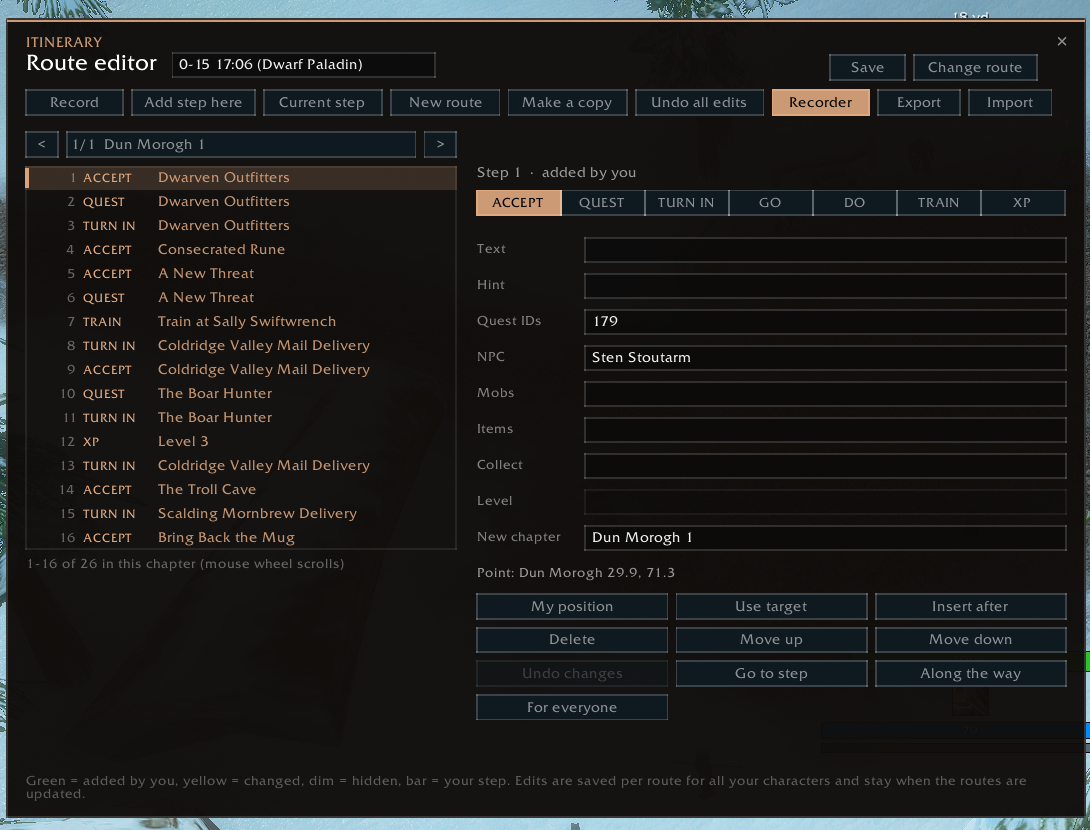
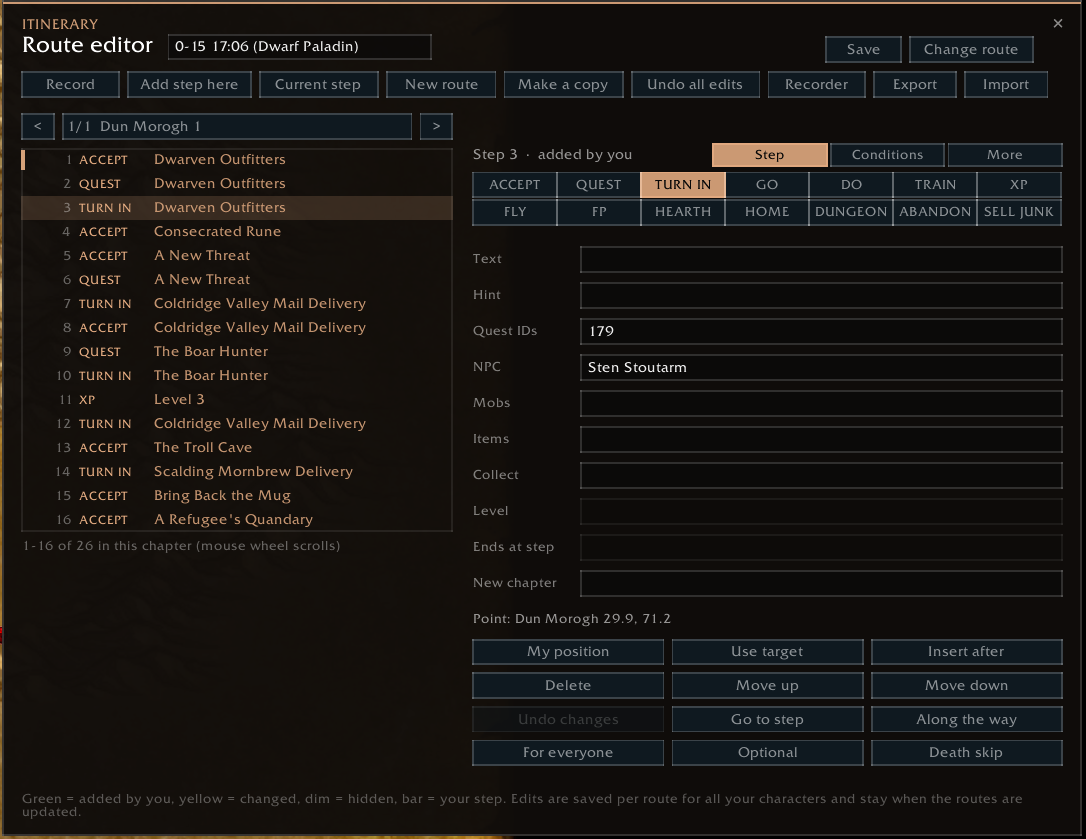
Manual: new screenshots (route panel, every settings tab, editor Step and More pages) and the features since
- route-panel.png with the instructions card, the 8 settings tabs, route-editor.png (Step page) and new
  route-editor-more.png (More page with waypoints)
- Getting started: quest tracker hidden and quest sparkles on by default
- Route panel: along the way per line, the skipped quests line, the instructions card (own card or in the
  panel, click to point the arrow, timed quests counting down), the sound when a step is done
- Arrow tooltip setting; target button settings (show button, talk on second press, tag, mark)
- Trainer: buy class skills and the skill list's two views (worth a visit, auto-buy)
- Automation table: pick gear rewards; settings table per tab as the window has it now
- Editor header: renaming your own route
- README: map pins, waypoints on the world map
- Settings: switch segments widen for a longer label ("In the panel" was cut off)

Claude-Session: https://claude.ai/code/session_012DyZwV4Qtix4bANuyvmVZC

Changed region(s): [[0.0, 0.0, 1.0, 1.0], [0.4254, 0.3012, 0.4862, 0.4819], [0.4254, 0.512, 0.4862, 0.5723]]

diff --git a/MANUAL.md b/MANUAL.md
@@ -44,11 +44,15 @@ The **minimap button** (the brass compass):
 | Right-click | Show or hide the arrow |
 | Shift + click | Open the settings |
 
+Two things Itinerary changes in the game right away, both switched back in Settings > General: the game's own
+**quest tracker** is hidden (the panel tracks your objectives), and **quest sparkles** are on (quest objects
+on the ground and NPCs with a quest for you sparkle, without the outlines around everything else).
+
 ---
 
 ## 2. The route panel
 
-<p align="center"><img src="manual/route-panel.png" alt="The route panel" width="430"></p>
+<p align="center"><img src="manual/route-panel.png" alt="The route panel" width="434"></p>
 
 From top to bottom:
 
@@ -59,19 +63,13 @@ From top to bottom:
   counts (*Rockjaw Trogg slain 3/10*).
 - **Hint**: a line under the step with extra advice (*Unequip your shirt so you can sell it*). Items and
   spells in the text show their icon. Hover them for the tooltip; Shift-click links them in chat.
-- **INSTRUCTIONS**: things to keep doing next to your step. Examples: sell junk, use your hearthstone,
-  learn new skills at a trainer close by, a weapon master, a profession trainer, "don't sell the meat".
-  The guide's errands at a vendor are instructions too, not stops of their own: *Vendor trash at Rallic
-  Finn*, *Buy Ice Cold Milk*, food and water, bags, repairs. They're done when you open that vendor (selling
-  junk: any vendor). Buying something the route needs (a quest item, a weapon, arrows) stays a step.
-  Click an instruction that has a place, and the arrow points there. Click it again to go back to the
-  route.
-- **ALONG THE WAY** (green): side objectives you work on while you go, with live counts. These are quest
-  objectives or items to collect (*Crag Boar Rib 2/6*). Once the route reaches its own step for that
-  quest, that step shows the counts instead. A "turn in / accept it if you pass by" that the route does
-  as one of the next steps anyway isn't listed as an instruction too.
+- **ALONG THE WAY**: side objectives you work on while you go, with live counts. These are quest
+  objectives or items to collect (*Chunk of Boar Meat 3/10*), one per line; finished ones stay listed,
+  greyed. Once the route reaches its own step for that quest, that step shows the counts instead.
 - **Next steps**: a preview of what comes after. Steps that are done already are left out (a quest you
   have, an *Abandon* step for a quest you never took or handed in already).
+- **Skipped quests** (*2 skipped quests still open · hover for the list*): quests you skipped that are still
+  in your log, see [Skipping a quest](#5-moving-through-the-route).
 - **Footer**:
   - **Level timer**: time on this level and your pace against the route's reference run. Hover it for
     every level's time; scroll on it for more.
@@ -83,6 +81,21 @@ From top to bottom:
   - **Gear**: the settings. Hover it to see how much memory Itinerary and your top 5 addons use
     (measured only while you hover).
   - **‹ ›**: one step back or forward.
+- **INSTRUCTIONS**, in their own card under the panel (Settings > Panel > *Instructions*: *In the panel* puts
+  them inside it): things to keep doing next to your step. Examples: sell junk, use your hearthstone,
+  learn new skills at a trainer close by, a weapon master, a profession trainer, "don't sell the meat".
+  - The guide's errands at a vendor are instructions too, not stops of their own: *Vendor trash at Corina
+    Steele*, *Buy Ice Cold Milk*, food and water, bags, repairs. They're done when you open that vendor
+    (selling junk: any vendor). Buying something the route needs (a quest item, a weapon, arrows) stays a
+    step.
+  - **Click** an instruction that has a place (*Click to point the arrow here*), and the arrow points there.
+    Click it again to go back to the route.
+  - A timed quest's time left counts down on the instruction that runs until its turn-in (or on your step).
+  - A "turn in / accept it if you pass by" that the route does as one of the next steps anyway isn't listed.
+
+**A sound when a step is done**: Settings > General > *Sound when a step is done* plays one of nine sounds
+(from a quest chime to a meow) when a step that takes a while is done: kill or loot objectives, collecting
+items, grinding a level. Not for talking to NPCs, travelling or skipping. Off by default.
 
 **Moving the panel**: Alt + right-click the panel to unlock it, drag it, then Alt + right-click again to
 lock it.
@@ -107,7 +120,7 @@ points at the area where the mobs are.
   (Settings > Arrow > *Death skips at the arrow*, on).
   Trainer visits show there as one line, *Skills to learn nearby*: the arrow only leads to a trainer once you
   click its instruction in the panel.
-- Hover the arrow for the step's details.
+- Hover the arrow for the step's details (Settings > Arrow > *Arrow tooltip*, on).
 - **Alt + right-click** the arrow to unlock it, drag it, then Alt + right-click again to lock it.
 - Arrow styles (Settings > Arrow):
   - **Itinerary**, **Gold**, **White**, **Big**
@@ -142,6 +155,9 @@ Settings > Keys, or in the game's key bindings under *Itinerary*.
     comes first, ahead of anything closer, until you have what you need from it.
   - **NPCs**: it targets the NPC you need to talk to and marks them with an orange circle. Press the key
     again to talk to them. That's handy for taking a contested escort quest first.
+  - Settings > Keys (all on by default): *Show target button* (off hides the button; its key still works),
+    *Talk on second press* (outside combat, for 8 seconds or until you talk), *Tag with a spell* (auto
+    attack until you know one), *Mark the target* (the skull and the orange circle).
 
 Which corner of the panel the buttons sit at: Settings > Panel > *Item & target buttons*.
 
@@ -177,7 +193,7 @@ later steps and all follow-up quests are left out too, and chat tells you how ma
 anyway (or going back with ‹) brings them back. Abandoning a quest in your quest log drops it the same
 way.
 
-Skipped quests that are still open show as a line at the bottom of the panel (*1 skipped step*): hover for
+Skipped quests that are still open show as a line at the bottom of the panel (*1 skipped quest still open*): hover for
 the list, click to go back to the first one, **right-click** if you're not doing them (the line goes away,
 the steps stay skipped). Once you've moved on to the next chapter (zone), they drop off by themselves,
 except a quest that's ready to hand in.
@@ -194,8 +210,18 @@ except a quest that's ready to hand in.
 **Class trainer.** When new skills worth buying are waiting and you can pay for them, an instruction
 appears as soon as a trainer of your class is **within 400 yards**: *Train new skills at …*. Hover it
 for **READY TO LEARN**, which lists each skill with its icon and price, and how much money you have.
-Worthwhile skills are green, and only those are bought (Settings > Trainer > *Only worthwhile skills*; with it off, the rest too from level 10). You choose which skills count as worthwhile (and
-which are never bought) in Settings > Trainer.
+With *Buy class skills* on (Settings > Trainer, off by default), opening your trainer buys what you can
+afford: only the worthwhile skills (*...only worthwhile ones*, on); with that off, the rest too from level
+10.
+
+**Your class's skill list** (Settings > Trainer, at the bottom) has two views:
+- **Worth a visit**: lit skills are worth a trip, so an instruction sends you to the trainer for them
+  (damage spells by default). The rest is bought when you're there anyway. A dimmed skill is one you
+  won't buy.
+- **Auto-buy**: lit skills are bought at the trainer; click one to leave it out.
+
+Click a skill to switch it; **All** and **None** switch the whole view. The list fills after your first visit
+to a class trainer.
 
 **Money kept back**: from level 6 on, buying keeps a small reserve for your next skills. It starts at
 40 copper at level 6, doubles every other level, and stops at 5 gold.
@@ -272,7 +298,7 @@ to do things by hand that time.
 | Accept and hand in quests (only the route's quests, or all) | on | Quests |
 | Share every quest you accept with your group (not the ones shared with you) | off | Quests |
 | Click through quest dialogue | on | Quests |
-| Pick plain armor rewards (white/green armor only) | off | Quests |
+| Pick gear rewards (all white/green armor: the best armor type you wear, then the best-selling) | off | Quests |
 | Gold coin on the best-selling reward | on | Quests |
 | Sell grey items at any vendor | on | Quests |
 | Take the route's flight when you talk to the flight master | on | Travel |
@@ -328,7 +354,7 @@ the editor, or `/iti import`), pastes it with Ctrl+V, and gets it as a new route
 
 ## 9. The route editor
 
-<p align="center"><img src="manual/route-editor.png" alt="The route editor" width="760"></p>
+<p align="center"><img src="manual/route-editor.png" alt="The route editor, Step page" width="760"></p>
 
 The editor changes any route, or builds one of your own: add, change, hide and move steps, and set everything
 a route step can do. Open it with a **right-click on the route button** in the panel footer, or `/iti edit`.
@@ -343,8 +369,8 @@ Your changes work the moment you make them. **Save** writes them to disk right a
 opens again). Otherwise that happens when you log out, and a game crash before that would lose them.
 
 ### The window
-- **Header**: the route and its version. **Change route** picks the route to look at and change (this
-  character follows it). **Save**.
+- **Header**: the route and its version; on a route of your own its name, which you can change right there.
+  **Change route** picks the route to look at and change (this character follows it). **Save**.
 - **Toolbar**:
 
   | Button | Does |
@@ -448,6 +474,8 @@ the route's own steps have show here too, so you can see why a step is left out.
 
 ### The More page
 
+<p align="center"><img src="manual/route-editor-more.png" alt="The route editor, More page with waypoints" width="760"></p>
+
 | Field | You type |
 |---|---|
 | **Trainer** (train steps) | `class` (your class trainer), `weapons 202, 196` (a weapon master; the skills' spell IDs), `any of 202, 196` (one is enough). Empty: another trainer (a profession, riding) |
@@ -534,14 +562,14 @@ Open them with the gear in the panel footer, Shift + click on the minimap button
 
 | Tab | What's there |
 |---|---|
-| General | Panel and minimap button on/off, hide them in dungeons, the game's quest tracker, quest sparkles, step sound, route pack order, forget this character |
-| Quests | Accept/hand in, which quests, share quests in a group, dialogue, reward picking, sell junk, auction house steps |
-| Travel | Flights, hearthstone, spirit healer, map pins (world map, minimap, line between them) |
-| Trainer | Buy class skills, open the training window, trainer visits (instruction/step), weapon skills, buy weapon skills, the worthwhile/skip list per class |
-| Professions | Learn at the trainer, main and secondary professions, first profession, gather mode, gathering tracking, node icons, gathering tools |
-| Panel | Color scheme (Itinerary, Amethyst, Frost, Ember, Slate), instructions card, item links, style, opacity, size, text shadow, grow direction, button corner, lock |
-| Arrow | Arrow on/off, style, instructions above it, death skips above it, their size, tooltip, lock |
-| Keys | Key bindings for the target and item buttons, and how the target button behaves |
+| General | Route panel and minimap button, hide them in dungeons, the game's quest tracker, quest sparkles, the sound when a step is done, route pack order, factory reset, forget this character |
+| Quests | Accept and hand in, which quests (route or all), share quests in a group, quest dialogue, pick gear rewards, best-selling reward coin, sell junk, auction house steps |
+| Travel | Take flights, set hearthstone, spirit healer, map pins (on the world map, on the minimap, the line between them) |
+| Trainer | Buy class skills (only worthwhile ones), open the training window, trainer visits (instruction or step), weapon skills, buy weapon skills, your class's skill list (worth a visit / auto-buy) |
+| Professions | Learn at the trainer, main professions, first profession, secondary professions, gather mode, gather data (shipped, own, both), gathering tracking, node icons, gathering tools |
+| Panel | Color scheme (Itinerary, Amethyst, Frost, Ember, Slate), instructions (own card or in the panel), item and spell links, panel style (card or minimal), opacity, size, text on a see-through panel (shadow or outline), grow direction, item & target button corner, lock |
+| Arrow | Arrow on/off, arrow look, instructions at the arrow, death skips at the arrow, their size, tooltip, lock |
+| Keys | Key bindings for the target and item buttons; show the target button, talk on second press, tag with a spell, mark the target |
 
 <details>
 <summary><b>Screenshots of every settings tab</b> (click to open)</summary>

diff --git a/README.md b/README.md
@@ -5,7 +5,7 @@
 A step-by-step leveling companion for WoW Forever: a route panel, a waypoint arrow and a lot of small
 automation, built around routes you record and edit yourself.
 
-<p align="center"><img src="manual/route-panel.png" alt="The route panel" width="430"></p>
+<p align="center"><img src="manual/route-panel.png" alt="The route panel" width="434"></p>
 
 Itinerary ships **without routes**. Record your own with the recorder, import one somebody shared, or
 install a route pack (a separate addon with its own license). Trainer, vendor and gathering positions come
@@ -17,6 +17,7 @@ in the separate `Itinerary_Data` add-on (GPL v3); without it Itinerary learns th
   side objectives and items to collect, the next few steps and your pace against a reference run.
 - **Waypoint arrow**: points at the current step's NPC, objective area or travel path, with distance and the
   instruction text above it. Several arrow styles; colour schemes for the whole UI.
+- **Map pins**: your next stops as numbered pins on the world map and minimap, with a dotted line between them.
 - **Quest and item buttons**: secure buttons for the step's usable items, the hearthstone, and a target
   button that finds the step's mobs or NPC (with key bindings).
 - **Automation** (each part can be switched off; hold Shift to do things by hand): accept and turn in route
@@ -30,7 +31,8 @@ in the separate `Itinerary_Data` add-on (GPL v3); without it Itinerary learns th
   find are remembered.
 - **Route editor and recorder**: record a route while you play (quests, trainers, flights, hearthstone,
   hints, instructions, along-the-way objectives), change any step and everything it can do (every step type,
-  conditions, waypoints, dialogue, macros), and share routes as import strings.
+  conditions, waypoints, dialogue, macros), drag a step's waypoints into place on the world map, and share
+  routes as import strings.
 - **Group play**: share every quest you accept with your group (optional).
 
 ## Commands

diff --git a/CHANGELOG.md b/CHANGELOG.md
@@ -132,6 +132,7 @@
   cause small stutters).
 
 ### Fixed
+- Settings: a switch with a longer label is wider instead of cut off (Panel > Instructions: "In the panel").
 - Editor: your first change to a route from a pack (which makes your own copy) no longer jumps the editor to
   step 1; it stays on the step you're changing.
 - The hearth to Stormwind after the Darkshore turn-ins (route version 5, dungeon routes) never showed: the
